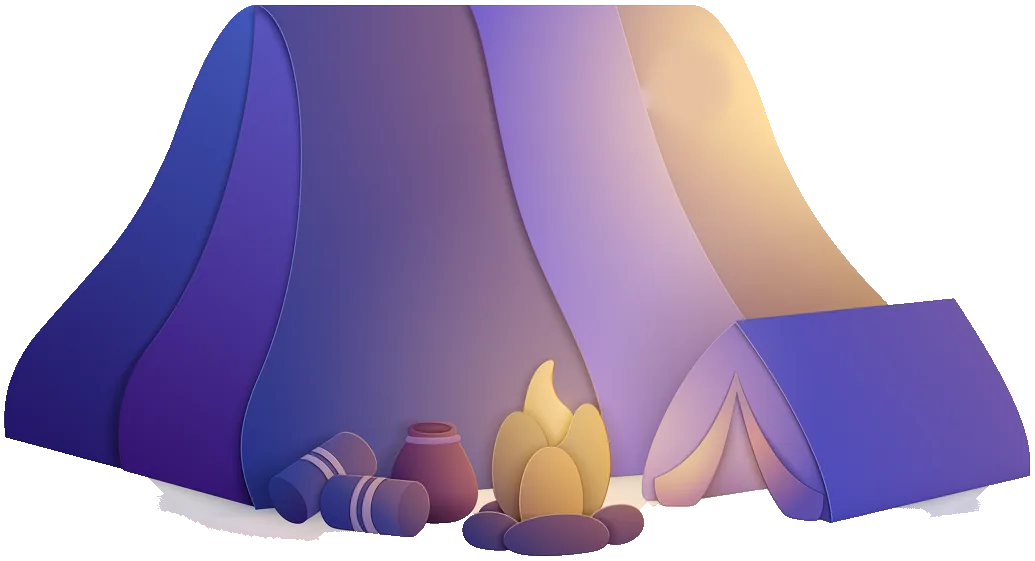
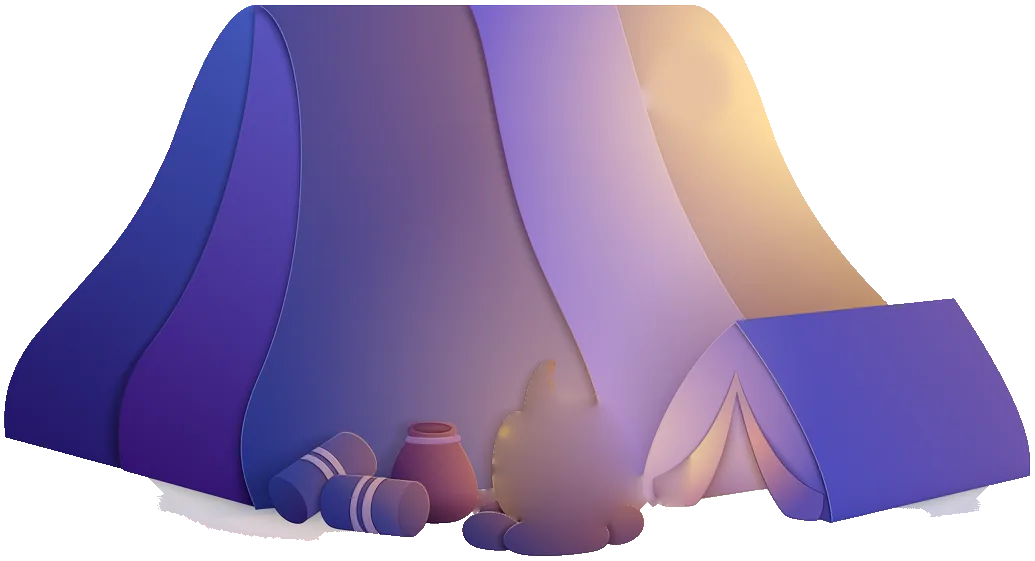
Journey: a more realistic campfire, lit once the kings walk over; the tent camps without their own fire; Pip explores the camp in the evening and comes when you click the sand; the kings ride home empty-handed; a courtyard inn

Changed region(s): [[0.4329, 0.6364, 0.6802, 0.9394]]

diff --git a/src/journey/journey.js b/src/journey/journey.js
@@ -258,6 +258,24 @@
 	});	pump();
 
 	function art(name) { return name && images[name] || null; }
+	// test mode: note the name of every picture drawn (for docs/qa, which shows on which nights each picture is used)
+	var drawnNames = {};
+	if (TEST) (function() {
+		var orig = CanvasRenderingContext2D.prototype.drawImage, known = new WeakMap();
+		function nameOf(im) {
+			if (known.has(im)) return known.get(im);
+			var n = im && im.src && /\/art\/([^/?]+)\.webp/.exec(im.src);
+			n = n ? n[1] : null;
+			if (!n) for (var k in images) { var o = images[k]; if (o.dark === im || o.soft === im || o.soft2 === im || o.bent === im) { n = k; break; } }
+			if (im) known.set(im, n);
+			return n;
+		}
+		CanvasRenderingContext2D.prototype.drawImage = function(im) {
+			var n = nameOf(im);
+			if (n) drawnNames[n.replace(/-(body|leg\d-(upper|lower))$/, '')] = 1;
+			return orig.apply(this, arguments);
+		};
+	})();
 	function animFrames(prefix, n) { var f = []; for (var i = 0; i < n; i++) { if (!art(prefix + i)) return null; f.push(art(prefix + i)); } return f; }
 	function pixels(im) {
 		var c = document.createElement('canvas'), w = Math.min(im.width, 1600), h = Math.round(im.height * w / im.width);
@@ -1362,21 +1380,76 @@
 		return [{x: fx - 70, dir: 1}, {x: fx + 68, dir: -1}, {x: fx - 128, dir: 1, back: true}][i];   // close to the fire, but not in it
 	}
 	function kingY(x) { return groundY(x - LEAD_X + cam * DAYW) + 4; }
-	function paintFire(x, a) {
+	// The campfire: a ring of stones, crossed logs glowing at their ends, flames that lick and flicker (each tongue drawn
+	// hot white-yellow at the root to red at the tip, and added together so they glow where they overlap), a pool of
+	// firelight on the sand, sparks drifting up and a thin smoke. grow (0..1) is how far it has caught: it's lit once the
+	// kings have walked over, starting small and building to a steady fire.
+	var embers = [], smoke = [], fireClock = 0;
+	function paintFire(x, a, grow) {
 		if (a <= 0) return;
-		var y = kingY(x);
+		grow = grow == null ? 1 : grow;
+		var y = kingY(x), dt = clamp(clock - fireClock, 0, 0.1); fireClock = clock;
+		var size = 0.25 + 0.75 * grow;
 		ctx.save(); ctx.globalAlpha = a;
-		glow(x, y - 26, 210, 'rgb(255,160,60)', 0.55 * flicker(3));
-		glow(x, y - 14, 60, 'rgb(255,220,140)', 0.6 * flicker(5));
-		ctx.fillStyle = '#4a2a14'; ctx.save(); ctx.translate(x, y - 4); ctx.rotate(0.35); ctx.fillRect(-24, -3.5, 48, 7); ctx.rotate(-0.7); ctx.fillRect(-24, -3.5, 48, 7); ctx.restore();
-		[[0, 56, '#ff9a2e'], [0, 40, '#ffd166'], [0, 22, '#fff3c4']].forEach(function(f, n) {
-			var hgt = f[1] * (0.85 + 0.25 * Math.sin(clock * (9 + n * 3) + n)), w = 15 - n * 4;
-			ctx.fillStyle = f[2]; ctx.beginPath(); ctx.moveTo(x - w, y - 4);
-			ctx.quadraticCurveTo(x - w * 0.6 + Math.sin(clock * 7 + n) * 2, y - hgt * 0.6, x + Math.sin(clock * 5 + n) * 3, y - 4 - hgt);
-			ctx.quadraticCurveTo(x + w * 0.6, y - hgt * 0.5, x + w, y - 4); ctx.fill();
+		// firelight on the sand and on whoever stands near
+		ctx.globalCompositeOperation = 'lighter';
+		ctx.save(); ctx.translate(x, y); ctx.scale(1, 0.32);
+		glow(0, 0, 230 * size, 'rgb(255,130,40)', 0.16 * flicker(3) * grow);
+		ctx.restore();
+		glow(x, y - 30, 190 * size, 'rgb(255,150,60)', 0.22 * flicker(5) * grow);
+		ctx.globalCompositeOperation = 'source-over';
+		// the stones and the logs
+		for (var i = 0; i < 9; i++) {
+			var t = i / 9 * Math.PI * 2, sx = x + Math.cos(t) * 26, sy = y - 2 + Math.sin(t) * 6;
+			if (Math.sin(t) < -0.2) continue;   // (the back of the ring is hidden behind the fire)
+			ctx.fillStyle = '#3b3140'; ctx.beginPath(); ctx.ellipse(sx, sy, 7, 4.5, 0, 0, Math.PI * 2); ctx.fill();
+			ctx.fillStyle = 'rgba(255,150,70,' + (0.35 * grow * flicker(i)).toFixed(3) + ')'; ctx.beginPath(); ctx.ellipse(sx, sy - 1.5, 5, 2, 0, Math.PI, 0); ctx.fill();
+		}
+		[[0.38, '#3d2414'], [-0.42, '#4a2c17'], [0.05, '#35200f']].forEach(function(l) {
+			ctx.save(); ctx.translate(x, y - 5); ctx.rotate(l[0]);
+			ctx.fillStyle = l[1]; ctx.beginPath(); ctx.roundRect ? ctx.roundRect(-22, -3.5, 44, 7, 3.5) : ctx.rect(-22, -3.5, 44, 7); ctx.fill();
+			ctx.fillStyle = 'rgba(255,' + Math.round(110 + 60 * flicker(l[0] * 9)) + ',40,' + (0.85 * grow).toFixed(2) + ')';   // embers glowing in the wood
+			ctx.fillRect(-8, -2, 16, 3.5);
+			ctx.restore();
+		});
+		// the flames: tongues of different heights, swaying and flickering, each with its own rhythm; the tall ones red
+		// and orange, painted over each other, the short ones in front yellow
+		var tongues = [[-11, 0.62, 1.3], [9, 0.7, 2.1], [-3, 1, 0.4], [4, 0.85, 3.3], [-8, 0.5, 4.7], [12, 0.45, 5.9]];
+		tongues.sort(function(p, q) { return q[1] - p[1]; });   // tallest at the back
+		tongues.forEach(function(tg, n) {
+			var ph = tg[2], wob = Math.sin(clock * 7.3 + ph) * 0.5 + Math.sin(clock * 13.1 + ph * 2) * 0.3 + Math.sin(clock * 3.1 + ph) * 0.2;
+			var hgt = 58 * tg[1] * size * (0.82 + 0.22 * wob), w = (11 - n * 0.6) * size, bx = x + tg[0] * size, by = y - 6;
+			var lean = Math.sin(clock * 2.3 + ph) * 5 * size + night.wind * 6, tipX = bx + lean + Math.sin(clock * 9 + ph) * 3;
+			var g = ctx.createLinearGradient(0, by, 0, by - hgt), hot = tg[1] < 0.7;
+			g.addColorStop(0, hot ? 'rgba(255,224,120,0.95)' : 'rgba(255,170,60,0.95)'); g.addColorStop(0.35, hot ? 'rgba(255,170,50,0.9)' : 'rgba(245,110,30,0.85)');
+			g.addColorStop(0.75, 'rgba(215,60,20,0.55)'); g.addColorStop(1, 'rgba(160,30,10,0)');
+			ctx.fillStyle = g; ctx.beginPath(); ctx.moveTo(bx - w, by);
+			ctx.bezierCurveTo(bx - w * 1.1, by - hgt * 0.45, tipX - w * 0.5 + lean * 0.3, by - hgt * 0.7, tipX, by - hgt);
+			ctx.bezierCurveTo(tipX + w * 0.4 + lean * 0.3, by - hgt * 0.7, bx + w * 1.1, by - hgt * 0.4, bx + w, by);
+			ctx.closePath(); ctx.fill();
+		});
+		ctx.globalCompositeOperation = 'lighter';
+		glow(x, y - 12 * size, 16 * size, 'rgb(255,230,150)', 0.45 * grow * flicker(2));   // the hot heart, low in the fire
+		// sparks rising from it
+		if (!reduceMotion && Math.random() < dt * 14 * grow) embers.push({x: x + (Math.random() - 0.5) * 20, y: y - 20, vx: (Math.random() - 0.5) * 18 + night.wind * 20, vy: -50 - Math.random() * 60, life: 1.2 + Math.random() * 1.4, t: 0});
+		embers = embers.filter(function(e) {
+			e.t += dt; e.x += (e.vx + Math.sin(clock * 3 + e.life * 9) * 12) * dt; e.y += e.vy * dt; e.vy *= 0.995;
+			var f = 1 - e.t / e.life; if (f <= 0) return false;
+			ctx.fillStyle = 'rgba(255,' + Math.round(150 + 80 * f) + ',60,' + f.toFixed(2) + ')'; ctx.fillRect(e.x, e.y, 1.6, 1.6);
+			return true;
+		});
+		ctx.globalCompositeOperation = 'source-over';
+		// and a thin smoke drifting away above it
+		if (!reduceMotion && Math.random() < dt * 3 * grow) smoke.push({x: x + (Math.random() - 0.5) * 8, y: y - 50 * size, r: 6, t: 0, life: 4 + Math.random() * 2});
+		smoke = smoke.filter(function(p) {
+			p.t += dt; p.y -= 16 * dt; p.x += (6 + night.wind * 30) * dt; p.r += 5 * dt;
+			var f = 1 - p.t / p.life; if (f <= 0) return false;
+			glow(p.x, p.y, p.r, 'rgb(150,140,160)', 0.12 * f * Math.min(1, p.t * 2));
+			return true;
 		});
 		ctx.restore();
 	}
+
 	// The kings' stride: their robes hide their legs, so the hem and feet move instead. The bottom of the picture is
 	// cut off and drawn in two halves (back and front foot) that step forward and back in turn, with the hem
 	// swinging; the body above rises a touch over each step. Set KING_STRIDE to false to go back to the plain walk.
@@ -1432,12 +1505,13 @@
 			return p;
 		});
 		// 1. kings who are down, walking behind the camels to their places
-		var kings = [];
+		var kings = [], fireLit = 1e9;
 		plan.forEach(function(p, i) {
 			if (p.stand <= 0) return;
 			var c = p.c, gifts = p.spot.pray;
 			var x0 = p.seatX - 6, dist = Math.abs(p.spot.x - x0);
 			var walkDur = Math.max(1, Math.min(dist / 50, EVENING - p.walkStart - 1.6)), wt = clamp((e - p.walkStart) / walkDur, 0, 1);
+			fireLit = Math.min(fireLit, p.walkStart + walkDur);   // the first king to reach the fireplace lights it
 			var ew = wt * wt * (3 - 2 * wt), x = x0 + (p.spot.x - x0) * ew, y = kingY(x) - 5;
 			var stepping = wt > 0 && wt < 1, ph = dist * ew / 26 * Math.PI;
 			var bob = stepping ? (1 - Math.cos(2 * ph)) * 1.1 : 0, tilt = stepping ? Math.sin(ph) * 0.012 : 0;
@@ -1474,7 +1548,7 @@
 				ctx.restore();
 			}
 		});
-		if (kind === 'fire' && !night.plan.camp) paintFire(fireX(), smooth((e - 1.6) / 1.2));   // (a camp of tents has its own fire)
+		if (kind === 'fire') paintFire(fireX(), smooth((e - fireLit) / 0.8), smooth((e - fireLit) / 3.5));   // lit when the first of them gets there, catching and building up
 	}
 	// the page waits for the wise men and their camels to load, so nothing stands in for them first; if the art is
 	// very slow (or missing) it gives up after a few seconds and uses the logo's camels
@@ -1679,11 +1753,6 @@
 	var PIP_KEY = 'journey-pip-found';
 	var pip = {box: null, near: false, hop: -1, hopT: 0, u: null, state: 'trot', target: 0, until: 0, rng: null, last: 0, dir: 1, card: false};
 	function pipFound() { try { return JSON.parse(localStorage.getItem(PIP_KEY) || '[]'); } catch (e) { return []; } }
-	function pipHide() {   // where Pip hides tonight, once they've stopped (scene x)
-		if (eveningKind() === 'manger') return screenX('road', pieceU(STABLE)) - 150;
-		var r = Math.floor(hash(night.day * 13 + 5) * 4);
-		return [fireX() + 30, LEAD_X + 105, LEAD_X - 330, LEAD_X - CHAR_BACK[2] - 120][r];
-	}
 	var PIP_SPOTS = [130, -110, -330, 250, -470, 60];          // around the caravan, from the lead camel (scene units)
 	function pipReset() {
 		pip.rng = rng(night.day * 977 + 31); pip.u = null; pip.sx = null; pip.state = 'trot'; pip.until = 0; pip.hop = -1; pip.last = clock;
@@ -1692,12 +1761,7 @@
 		var base = cam * DAYW - LEAD_X;                          // world position of the screen's left edge
 		if (pip.u == null) { pip.u = base + Math.max(40, LEAD_X - CHAR_BACK[2] - 160); pip.target = pip.u; pip.state = 'sit'; pip.until = clock + 3 + pip.rng() * 3; }
 		var e = evening();
-		if (e > 2.9) {                                          // evening: off to tonight's hiding place, and stay there
-			var hideU = base + pipHide();
-			if (Math.abs(hideU - pip.u) > 2) { pip.state = 'trot'; var d = Math.sign(hideU - pip.u); pip.dir = d; pip.u += d * Math.min(Math.abs(hideU - pip.u), 150 * dt); }
-			else pip.state = 'sit';
-			return;
-		}
+		if (e > 2.9) { pipEvening(dt, base); return; }
 		var sx = pip.u - base;
 		if (show && show.mode === 'sofar' && e === 0) {
 			// the time-lapse races along far faster than a mouse can run, so he keeps up with the caravan instead
@@ -1733,6 +1797,43 @@
 		}
 		pip.u = clamp(pip.u, base + 24, base + VW - 24);             // always on screen
 	}
+	// In the evening Pip explores the camp: he trots to a spot, stops and looks about (turning now and then, sometimes
+	// a hop or two), then off somewhere else. He keeps to his own side of the fire and never goes near it. Click or tap
+	// the sand and he runs over to that spot (with a happy hop when he gets there); bring the pointer near and he turns
+	// to look at it and bounces.
+	function pipFireZone() { if (eveningKind() !== 'fire') return null; var fx = fireX(); return [fx - 75, fx + 75]; }
+	function pipSafe(fromX, x) {   // the nearest place to x he can get to from fromX without going through the fire
+		x = clamp(x, 30, VW - 30);
+		var z = pipFireZone();
+		if (!z) return x;
+		if (fromX <= z[0] + 1) return Math.min(x, z[0]);
+		if (fromX >= z[1] - 1) return Math.max(x, z[1]);
+		return fromX - z[0] < z[1] - fromX ? z[0] : z[1];   // (if he's somehow in it, straight out the nearer side)
+	}
+	function pipEvening(dt, base) {
+		var sx = pip.u - base;
+		if (pip.state === 'sit') {
+			if (pip.near) { pip.until = Math.max(pip.until, clock + 1); return; }   // he stays to watch the pointer
+			if (pip.rng() < dt * 0.35) pip.face = -(pip.face || 1);               // looking about
+			if (pip.rng() < dt * 0.25 && !(pip.skip > clock)) pip.skip = clock + 0.9; // a little hop or two
+			if (clock > pip.until) { pip.target = pipSafe(sx, 40 + pip.rng() * (VW - 80)); pip.state = 'trot'; pip.called = false; }
+		} else {
+			var d = Math.sign(pip.target - sx), step = (pip.called ? 190 : 110) * dt;
+			pip.dir = d || pip.dir;
+			if (Math.abs(pip.target - sx) <= step) {
+				sx = pip.target; pip.state = 'sit'; pip.face = pip.dir; pip.until = clock + 1.5 + pip.rng() * 3;
+				if (pip.called) { pip.skip = clock + 1.2; pip.called = false; }
+			} else sx += d * step;
+		}
+		pip.u = base + clamp(sx, 24, VW - 24);
+	}
+	function pipCall(evt) {   // a click or tap on the sand in the evening: Pip comes running to that spot
+		if (evening() <= 2.9 || pip.card || pip.u == null) return false;
+		var p = sceneXY(evt), base = cam * DAYW - LEAD_X;
+		if (p.y < groundY(base + p.x) - 70) return false;                        // (only on the ground, not the sky)
+		pip.target = pipSafe(pip.u - base, p.x); pip.state = 'trot'; pip.called = true;
+		return true;
+	}
 	// Pip is drawn from the sand mouse, warmed a little: darker than the sand, so he's easier to spot. He moves in
 	// little springy hops (squashing as he lands) with a soft shadow on the sand that shrinks as he jumps; when found
 	// he gives a big hop, then keeps bouncing happily while his card is open.
@@ -1748,11 +1849,12 @@
 		if (pip.hop >= 0) { pip.hopT += dt; var q = Math.min(1, pip.hopT / 0.7); hop = Math.sin(q * Math.PI) * 30; if (q > 0.92) squash = 0.2; if (pip.hopT > 0.75) pip.hop = -1; }
 		else if (pip.card) hop = Math.abs(Math.sin(clock * 4.5)) * 9;                // happy bounces while his card is open
 		else if (pip.near && !moving) hop = 3 + Math.abs(Math.sin(clock * 6)) * 2;   // a little excited bounce when a pointer comes near
+		else if (pip.skip > clock && !moving) { var sk = (clock * 2.6) % 1; hop = Math.sin(sk * Math.PI) * 9; squash = sk < 0.1 ? 0.15 : 0; }   // hopping in place
 		var waving = false;   // (always the original Pip)
 		var im = waving ? art('jr-pip-wave') : art('jr-cr-sand-mouse');
 		if (!im) return;
 		var lapse = show && show.mode === 'sofar' && evening() === 0;
-		var h = waving ? 26 : 20, w = h * im.width / im.height, dir = lapse ? 1 : moving ? pip.dir : (hash(night.day) < 0.5 ? 1 : -1);
+		var h = waving ? 26 : 20, w = h * im.width / im.height, dir = lapse ? 1 : moving ? pip.dir : pip.near && pip.lookX != null ? (pip.lookX < x ? -1 : 1) : pip.face || (hash(night.day) < 0.5 ? 1 : -1);
 		// his shadow, smaller and fainter the higher he is
 		var sh = 1 - Math.min(1, hop / 34);
 		ctx.fillStyle = 'rgba(70,35,10,' + (0.28 * sh).toFixed(3) + ')';
@@ -1781,9 +1883,10 @@
 		pip.wasPlaying = playing; playing = false; pip.card = true; updateControls();   // the scene waits while the card is open
 		pipCard.hidden = false; verseEl.style.visibility = 'hidden'; pipCard.querySelector('button').focus();
 	}
-	canvas.addEventListener('click', function(evt) { if (nearPip(evt, evt.pointerType === 'touch' ? 40 : 26)) findPip(); });
-	canvas.addEventListener('pointerdown', function(evt) { if (evt.pointerType === 'touch' && nearPip(evt, 40)) { evt.preventDefault(); findPip(); } });
-	canvas.addEventListener('mousemove', function(evt) { pip.near = nearPip(evt, 70); canvas.style.cursor = nearPip(evt, 26) ? 'pointer' : ''; });
+	canvas.addEventListener('click', function(evt) { if (nearPip(evt, evt.pointerType === 'touch' ? 40 : 26)) findPip(); else if (evt.pointerType !== 'touch') pipCall(evt); });
+	canvas.addEventListener('pointerdown', function(evt) { if (evt.pointerType === 'touch') { if (nearPip(evt, 40)) { evt.preventDefault(); findPip(); } else pipCall(evt); } });
+	canvas.addEventListener('mousemove', function(evt) { pip.near = nearPip(evt, 70); pip.lookX = sceneXY(evt).x; canvas.style.cursor = nearPip(evt, 26) ? 'pointer' : ''; });
+	canvas.addEventListener('mouseleave', function() { pip.near = false; });
 	document.getElementById('pip-close').addEventListener('click', function() {
 		pipCard.hidden = true; verseEl.style.visibility = ''; pip.card = false;
 		if (pip.wasPlaying) { pip.wasPlaying = false; playing = true; updateControls(); }
@@ -2247,8 +2350,9 @@
 		// for automated review: jump to a moment of a night and hold it there
 		window.journeyTest = {
 			moon: function() { return {phase: night.phase, words: moonWords(night.phase), day: night.day, cover: wx.cover, moonX: night.moonX, sh: shiftOf('sky'), VW: VW}; },
-			pip: function() { return pip.box; },
+			pip: function() { return pip.box && {x: pip.box.x, y: pip.box.y, target: pip.target, called: pip.called, state: pip.state}; },
 			findPip: function() { findPip(); },
+			drawn: function() { var d = Object.keys(drawnNames).sort(); drawnNames = {}; return d; },
 			blink: function(v) { holdBlink = v; },
 			owl: function() { spawnCritter('owl'); },
 			bugs: function() { return critters.filter(function(c) { return /scorpion|centipede|spider|beetle|snake/.test(c.kind); }).map(function(c) { return [c.u - cam * DAYW + LEAD_X, roadY(c.u) + c.depth]; }); },

diff --git a/src/journey/index.html b/src/journey/index.html
@@ -309,14 +309,14 @@ header, .player, .rotate {transition:transform 0.5s ease, opacity 0.5s ease;}
 	</footer>
 
 	<script src="/assets/js/site.js" defer></script>
-	<script src="/journey/camels.js?v=202610241911" defer></script>
-	<script src="/journey/camel-rig.js?v=202610241911" defer></script>
-	<script src="/journey/art-ready.js?v=202610241911" defer></script>
-	<script src="/journey/readings.js?v=202610241911" defer></script>
-	<script src="/journey/pip.js?v=202610241911" defer></script>
-	<script src="/journey/plan.js?v=202610241911" defer></script>
-	<script src="/journey/audio-ready.js?v=202610241911" defer></script>
-	<script src="/journey/sound.js?v=202610241911" defer></script>
-	<script src="/journey/journey.js?v=202610241911" defer></script>
+	<script src="/journey/camels.js?v=202610241938" defer></script>
+	<script src="/journey/camel-rig.js?v=202610241938" defer></script>
+	<script src="/journey/art-ready.js?v=202610241938" defer></script>
+	<script src="/journey/readings.js?v=202610241938" defer></script>
+	<script src="/journey/pip.js?v=202610241938" defer></script>
+	<script src="/journey/plan.js?v=202610241938" defer></script>
+	<script src="/journey/audio-ready.js?v=202610241938" defer></script>
+	<script src="/journey/sound.js?v=202610241938" defer></script>
+	<script src="/journey/journey.js?v=202610241938" defer></script>
 </body>
 </html>
